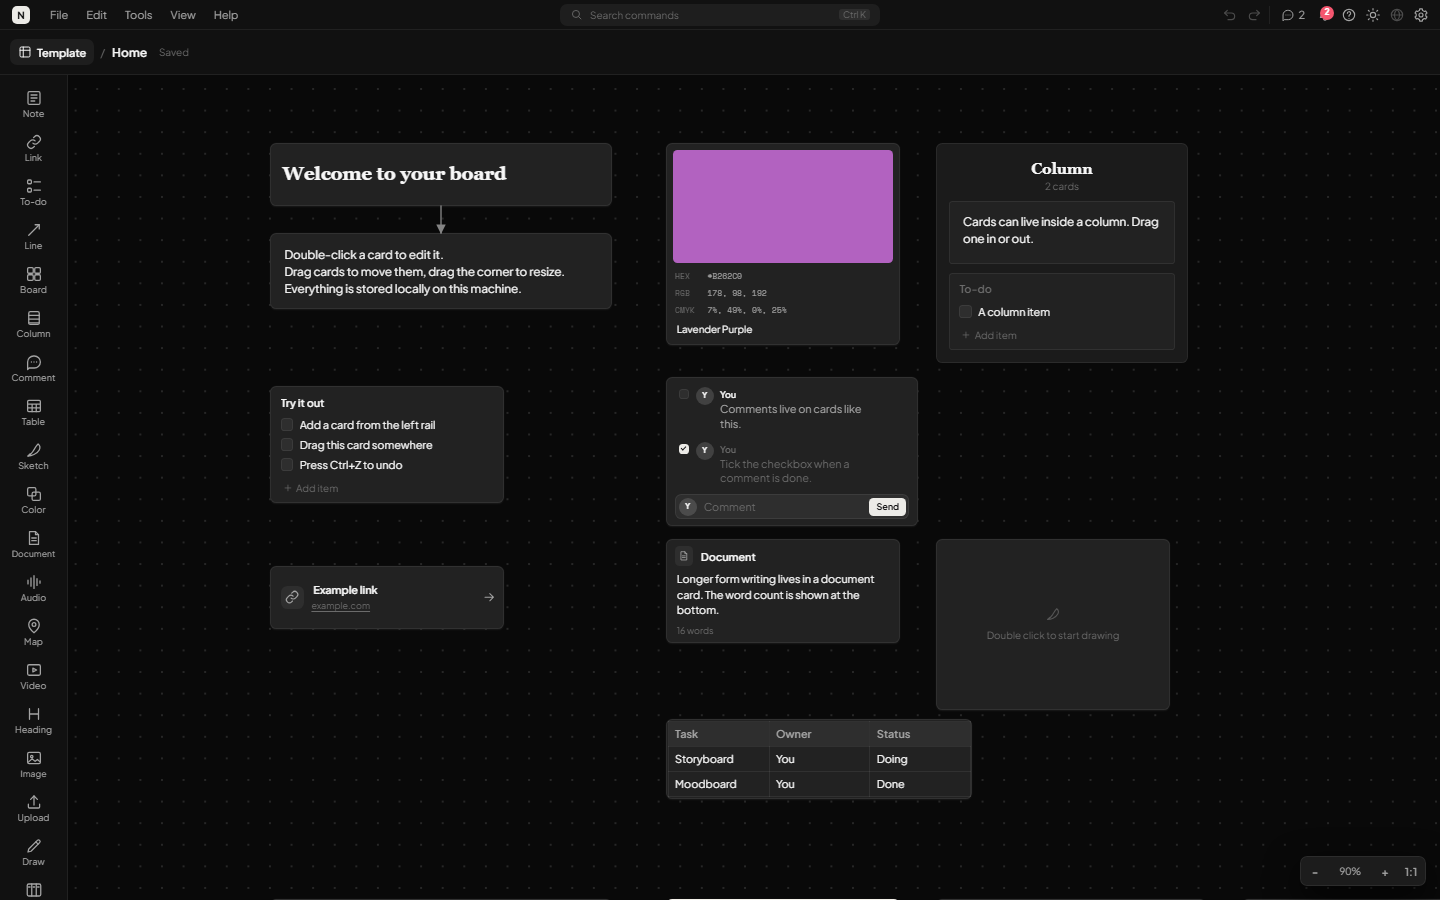
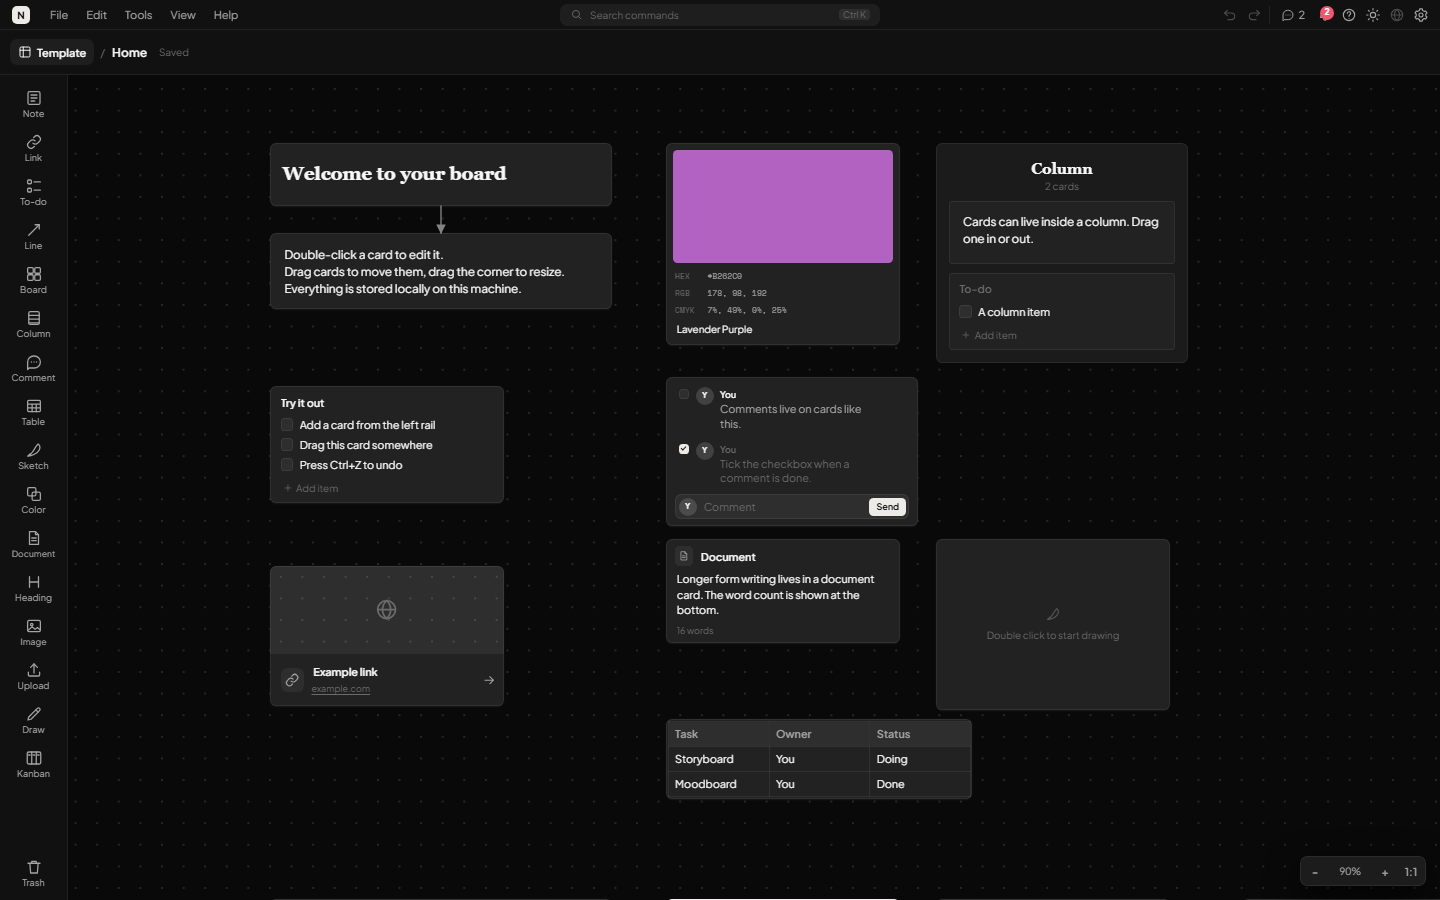
docs: refresh README screenshots for local-first mode
Regenerate the light and dark board shots, the welcome template, Settings General and Performance, and both editors. The topbar no longer shows Share, Sync or Account, and the welcome template uses the enabled card layout. Add the settings and editor captures to the screenshot script and update the README caption.

diff --git a/README.md b/README.md
@@ -9,9 +9,9 @@ Optional account code remains in the database for future work but is disabled in
 
 ![Dark theme](shots/board-dark.png)
 
-Creating the welcome board seeds one example of every card type, two connection arrows, a kanban with sample cards, a sketch with sample strokes and a nested board card:
+Creating the welcome board seeds one example of every enabled card type, two connection arrows, a kanban with sample cards, a sketch with sample strokes and a nested board card:
 
-![Welcome template with every tool](shots/welcome-all-tools.png)
+![Welcome template with every enabled tool](shots/welcome-all-tools.png)
 
 Nested board cards carry a mini thumbnail of the board content:
 
